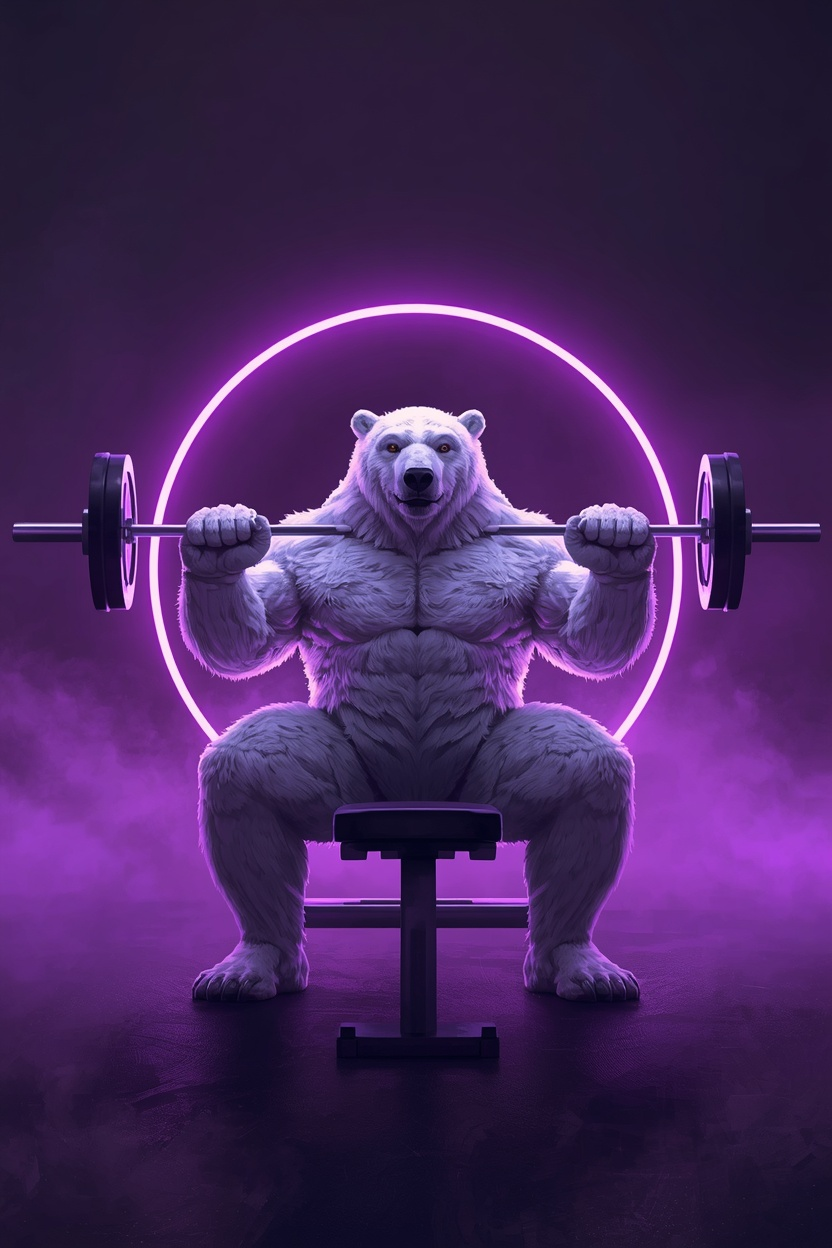
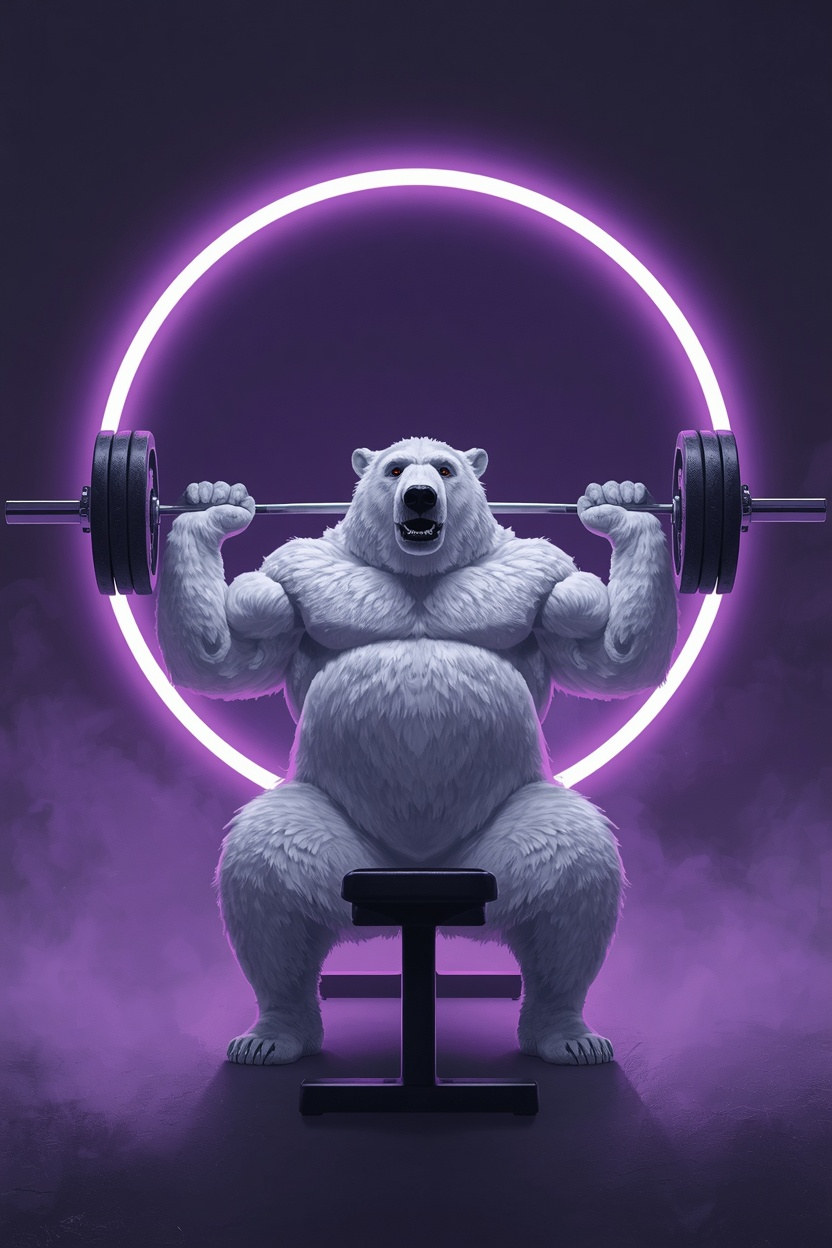
fix(cards): illustration sur la carte à l'honneur + régénère bench_40/60 (#23)
- FeaturedBanner affichait l'icône au lieu de l'illustration `art` → corrigé
- bench_40 (Premier Développé) et bench_60 (Pousseur) régénérés (images ratées)

diff --git a/components/screens/CardsScreen.tsx b/components/screens/CardsScreen.tsx
@@ -2,6 +2,7 @@
 
 import { useState, useMemo } from 'react'
 import { motion, AnimatePresence } from 'framer-motion'
+import Image from 'next/image'
 import { useApp } from '@/context/AppContext'
 import { CARDS, RARITY_STYLE, deriveStats, cardProgress } from '@/lib/cards'
 import type { GymCard, Rarity } from '@/types'
@@ -219,8 +220,14 @@ function FeaturedBanner({ card, onClick }: { card: GymCard; onClick: () => void 
         className="relative w-20 h-20 rounded-xl flex items-center justify-center flex-shrink-0 overflow-hidden"
         style={{ background: r.grad }}
       >
-        <div aria-hidden className="absolute inset-0" style={{ background: `radial-gradient(circle at 50% 45%, ${r.glow}, transparent 65%)` }} />
-        <Icon size={40} strokeWidth={1.6} className="relative z-10 text-white" style={{ filter: `drop-shadow(0 0 12px ${r.glow})` }} />
+        {card.art ? (
+          <Image src={card.art} alt={card.name} fill draggable={false} className="object-cover select-none" sizes="80px" />
+        ) : (
+          <>
+            <div aria-hidden className="absolute inset-0" style={{ background: `radial-gradient(circle at 50% 45%, ${r.glow}, transparent 65%)` }} />
+            <Icon size={40} strokeWidth={1.6} className="relative z-10 text-white" style={{ filter: `drop-shadow(0 0 12px ${r.glow})` }} />
+          </>
+        )}
       </div>
       <div className="min-w-0">
         <span
